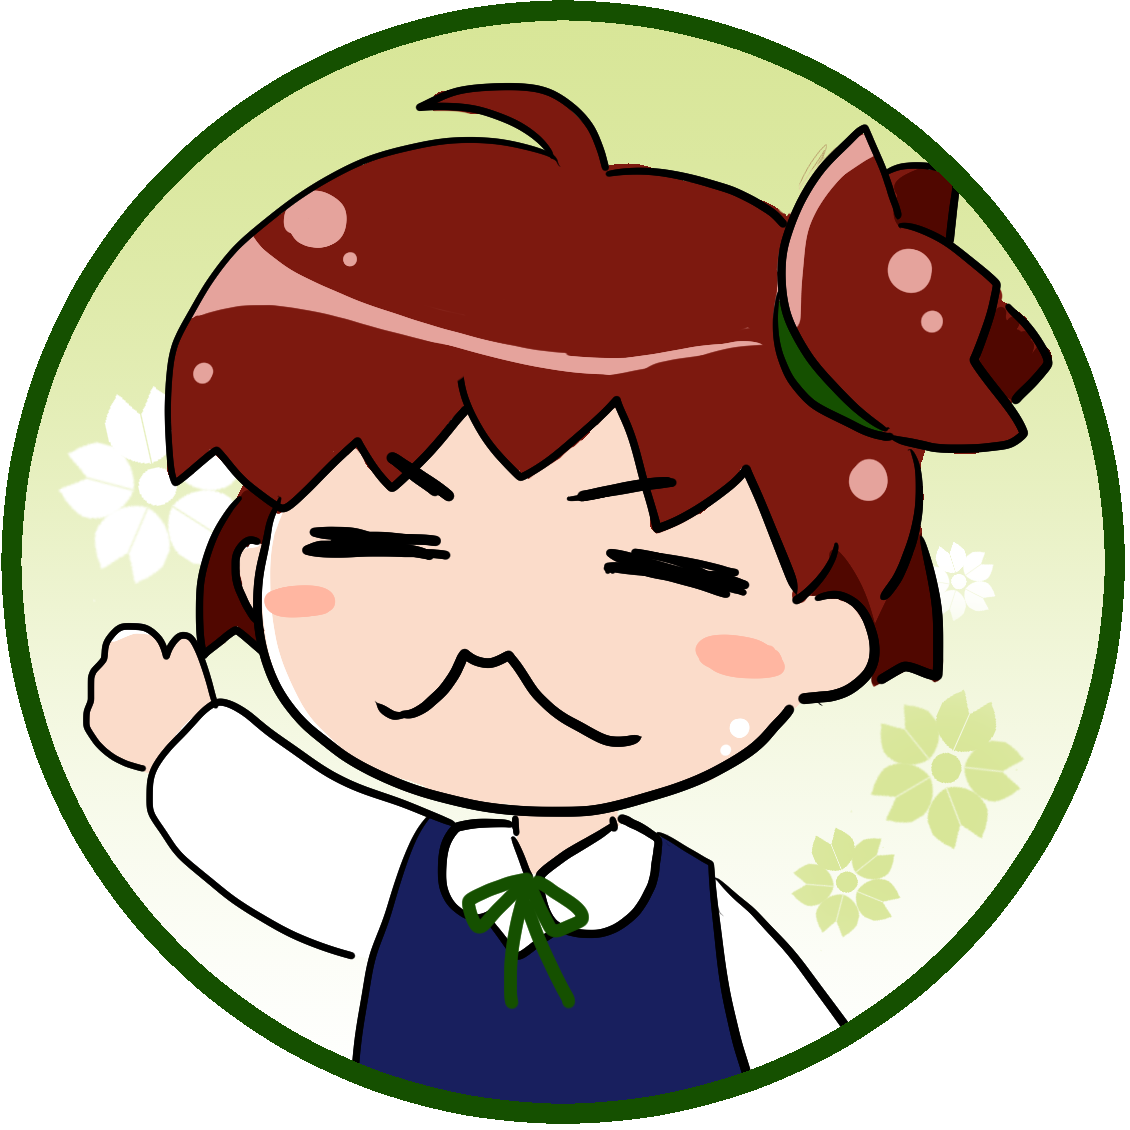
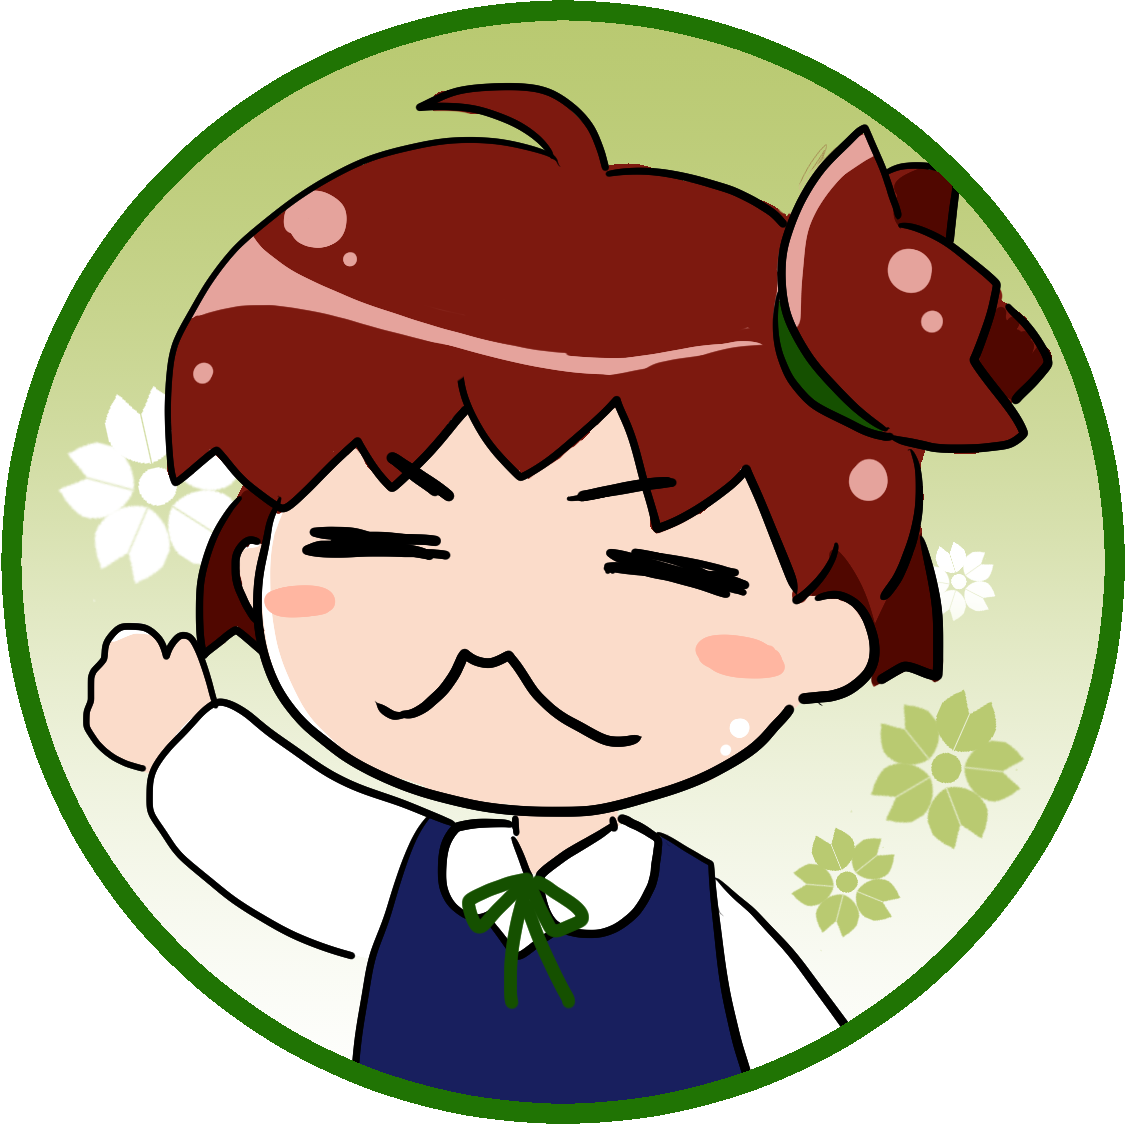
背景追加・タイトル部分にイラストなどを入れる変更。

Changed region(s): [[0.0, 0.0, 1.0, 1.0]]

diff --git a/style.css b/style.css
@@ -3,6 +3,13 @@ body {
   background-color: #38b48b;
   margin: 0;
 }
+.dot {
+  background-color: #38b48b;
+  background-image: radial-gradient(#00916d 20%, transparent 20%),
+  radial-gradient(#84c966 20%, transparent 20%);
+  background-size: 12px 12px;
+  background-position: 0 0, 6px 6px;
+}
 #container {
   background-color: #ffffff;
   width: 800px;
@@ -29,9 +36,16 @@ header {
   background-size: 20px 20px;
   background-color: #d8e698;
 }
-header img {
+#daiji {
+  width: 500px;
+  float: left;
+  margin-left: 30px;
+  margin-top: 10px;
+}
+#charactor {
   width: 200px;
   float: right;
+  padding: 20px 40px 20px 20px;
 }
 /* 本文 */
 article {
@@ -45,9 +59,14 @@ article {
 article h2 {
   background-color: #ffffff;
   margin-top: 0;
-  padding-left: 15px;
+  margin-left: -5px;
   font-size: 21px;
-  border-left: 10px solid #00a381;
+  /*border-left: 10px solid #00a381;*/
+}
+#midasi {
+  width: 38px;
+  vertical-align: -10px;
+  padding-right: 10px;
 }
 /* 最新コメント・プロフィールなど 下段の情報*/
 #asidenav {

diff --git a/index.html b/index.html
@@ -6,15 +6,16 @@
   <link rel="stylesheet" type="text/css" href="http://yui.yahooapis.com/3.18.1/build/cssreset-context/cssreset-context-min.css">
   <link rel="stylesheet" href="style.css">
 </head>
-<body>
+<body class="dot">
   <div id="container">
     <header>
-      <img src="title.png" alt="タイトル">
-      <img src="charactor.png" alt="キャラクター">
+      <!-- <img id="title" src="title.png" alt="タイトル"> -->
+      <img id="daiji" src="daiji.png" alt="タイトル">
+      <img id="charactor" src="charactor.png" alt="キャラクター">
     </header>
     <div class="gizagiza"></div>
     <article>
-      <h2>第1回　はじまりはじまり</h2>
+      <h2><img id="midasi" src="midasi.png" alt="見出し">第1回　はじまりはじまり</h2>
       <img src="4koma.jpg" alt="４コマ漫画です。"></img>
       <p>本文となるところなのでよろしくおねがいいたします</p>
     </article>
